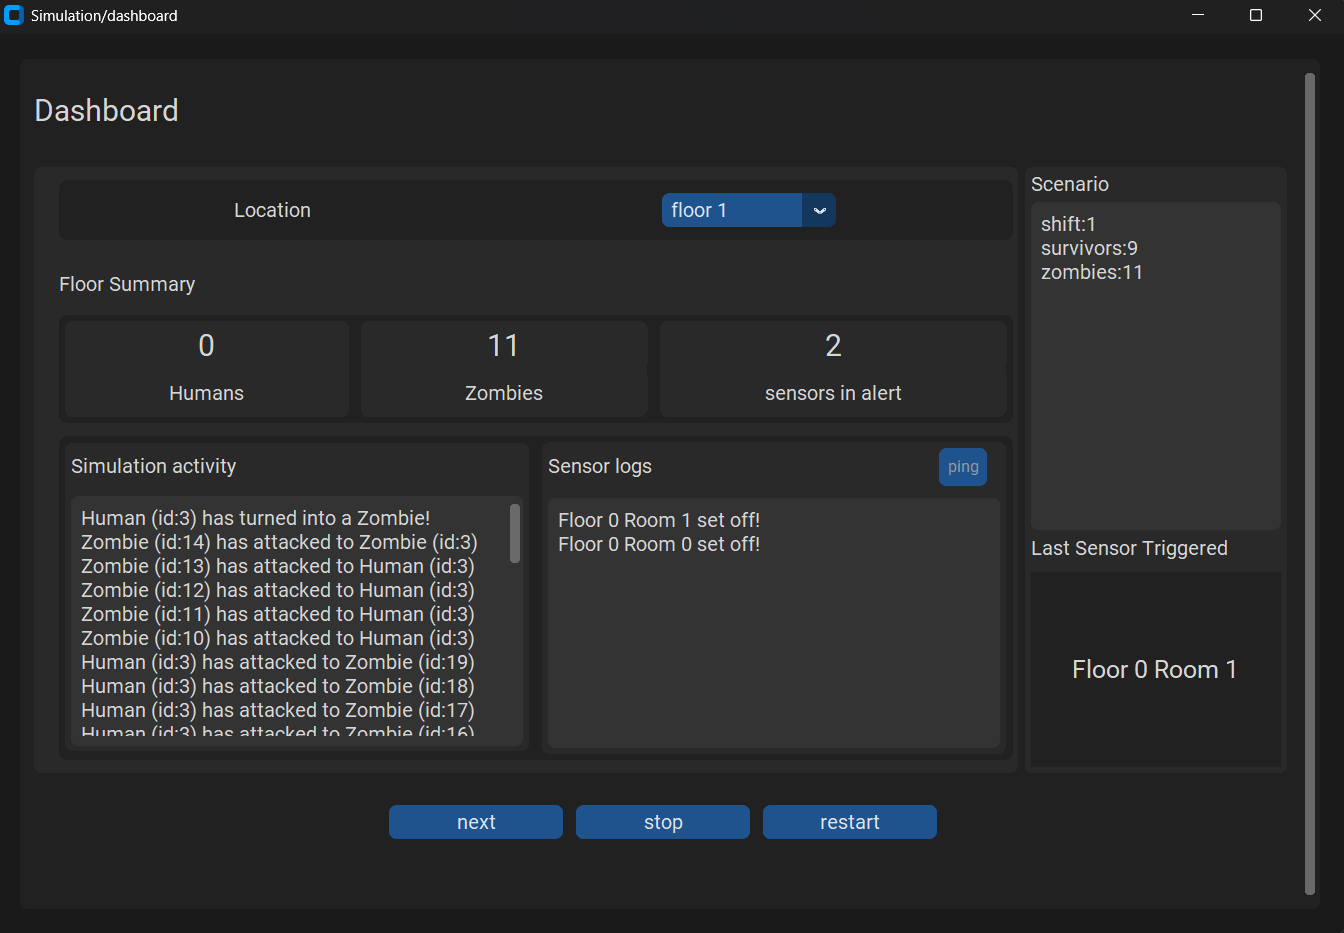
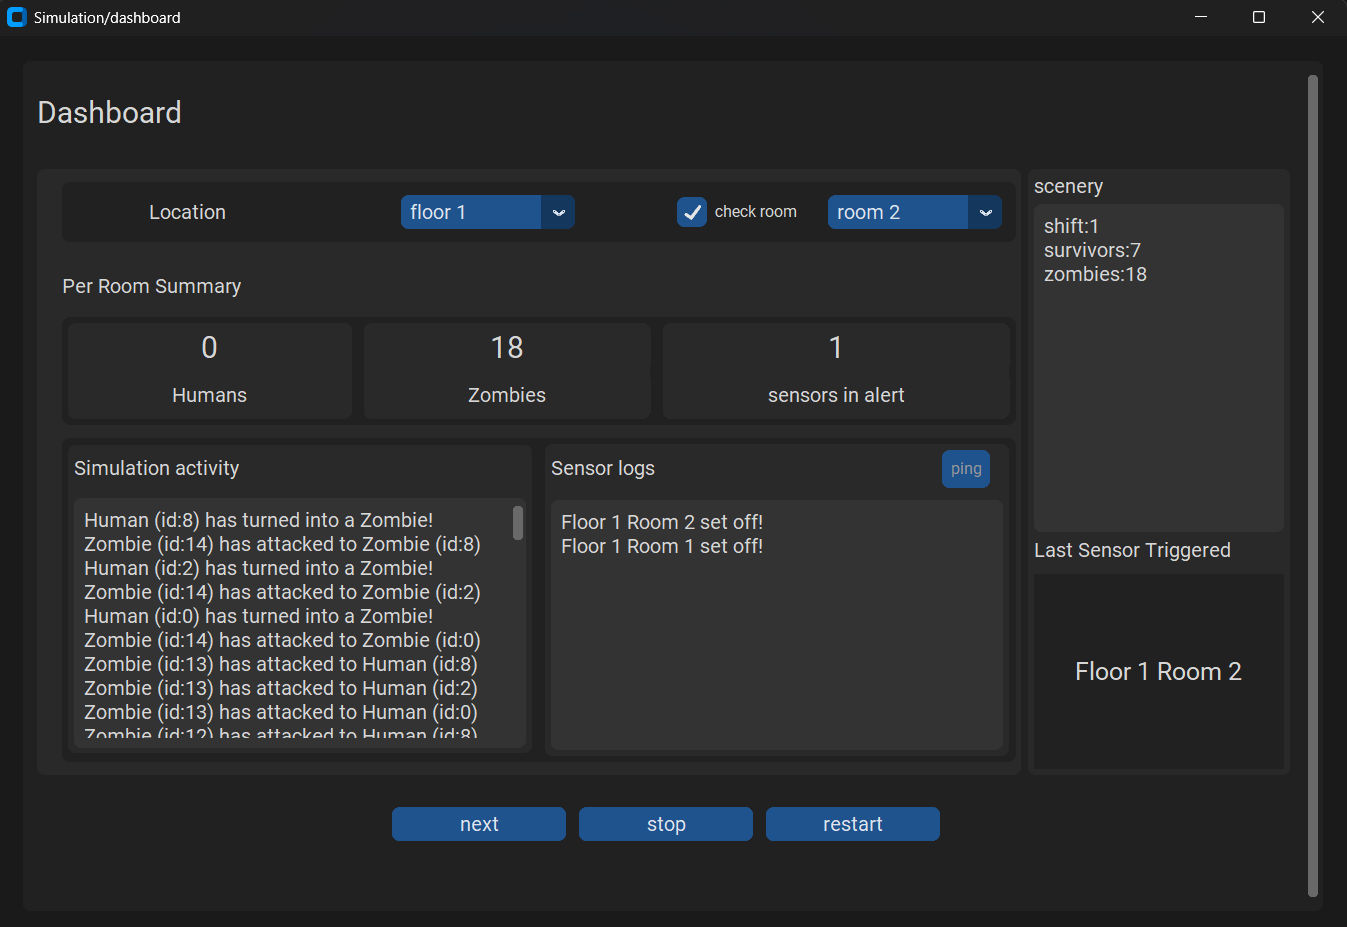
Documentation about Rooms Selector

diff --git a/README.md b/README.md
@@ -45,6 +45,10 @@ A continuación, la pantalla de Dashboard aparecerá con los detalles de la simu
 
 Mediante el `CtkOptionMenu` el usuario puede consultar la información general piso por piso.
 
+> Check Room & Rooms Selector
+
+El usuario puede consultar la situación específica de un piso y una habitación haciendo click sobre `Check Room`.
+
 > ping
 
 Se puede utilizar una sola vez por turno. El usuario puede realizar un ping hacia todos los sensores del edificio. Permitiendo ver los registros de los sensores en `Sensor logs`.
